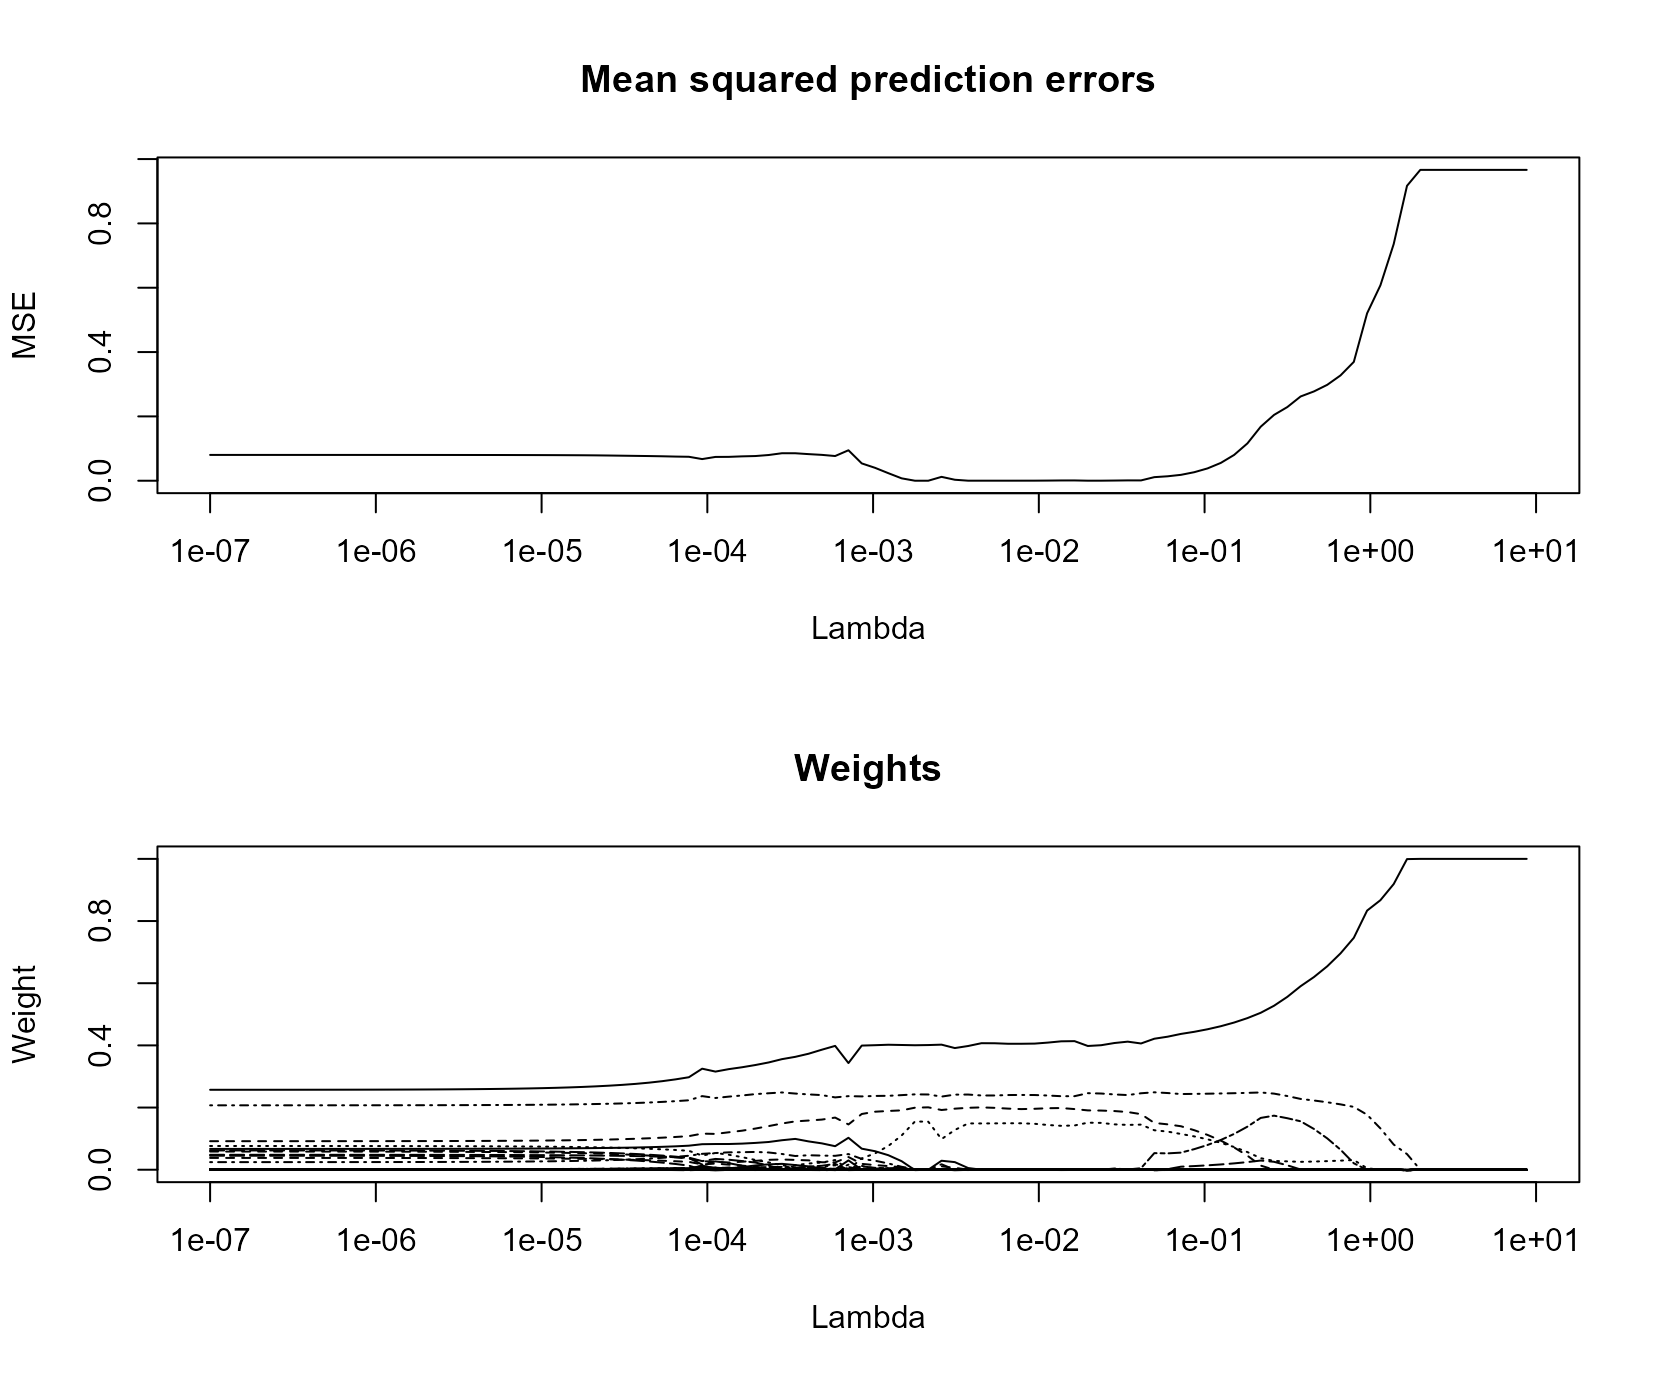
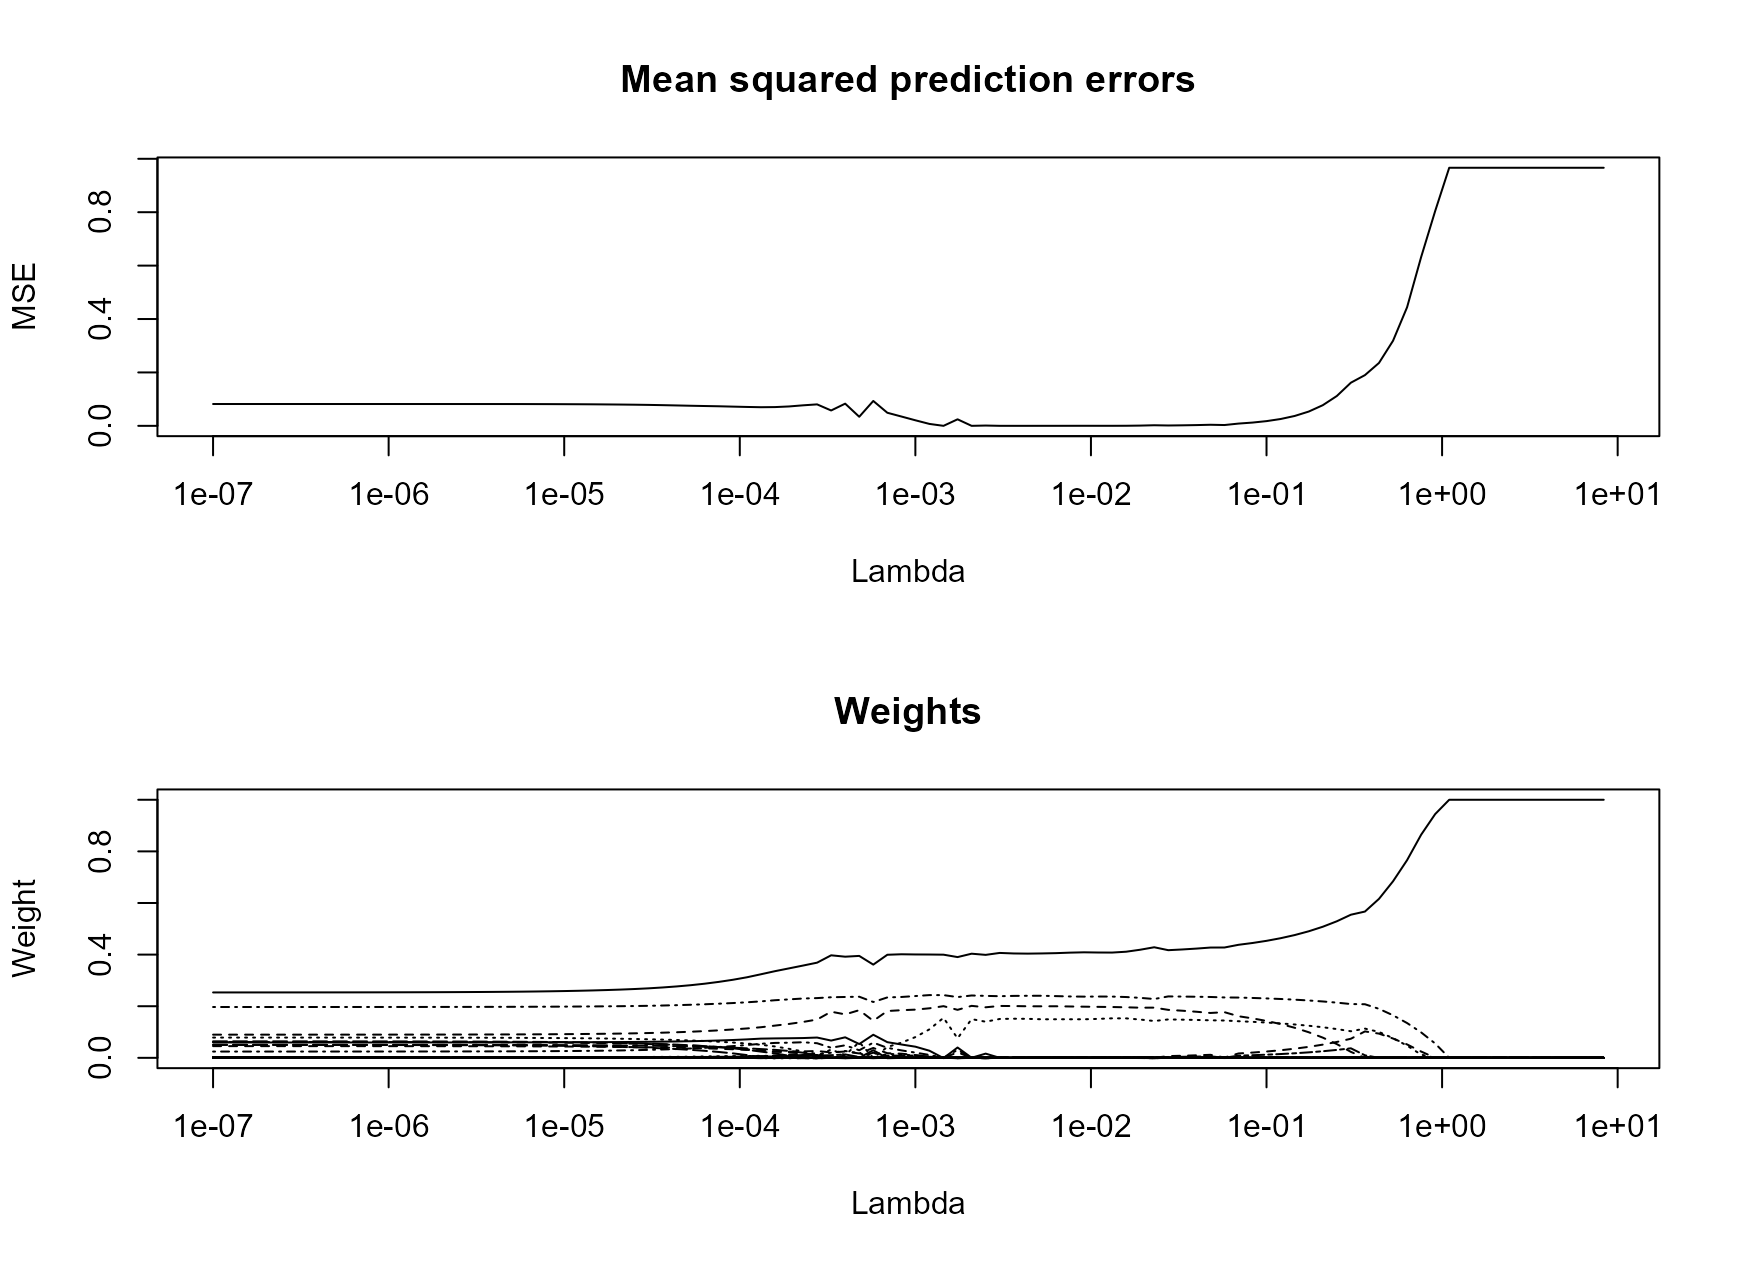
Update readme and plots

diff --git a/README.md b/README.md
@@ -7,8 +7,8 @@
 The goal of `pensynth` is to make it easier to perform penalized synthetic control in the spirit of [Abadie & L'Hour (2021)](https://doi.org/10.1080/01621459.2021.1971535). 
 
 ## Features
-- Faster than the original `Synth::synth` implementation for "vanilla" synthetic controls, even for large donor pools.
-- Built-in cross-validation on the pre-intervention outcome timeseries to determine the penalty parameter. (see example).
+- Faster than the original `Synth::synth` implementation for "vanilla" synthetic controls, even for large donor pools, because we use the [`osqp`](https://osqp.org/) quadratic program solver.
+- Built-in cross-validation on the pre-intervention outcome timeseries to determine the penalty parameter (see example below).
 - Plotting of the full solution path for cross-validated penalized synthetic controls.
 
 NB: in this implementation, variable weights have to be pre-specified (unlike in the original synthetic control implementaion). Additionally, currently only a single treated unit is supported. 
@@ -17,9 +17,38 @@ NB: in this implementation, variable weights have to be pre-specified (unlike in
 
 I recommend installing `pensynth` from r-universe like so:
 
-``` r
+```r
 install.packages("pensynth", repos = c("https://vankesteren.r-universe.dev", "https://cloud.r-project.org"))
 ```
+
+The latest version can also be installed directly from this repository:
+
+```r
+remotes::install_github("vankesteren/pensynth")
+```
+
+## Why penalization?
+
+Penalized synthetic control yields a smooth transition between the synthetic control method (when $\lambda = 0$) and nearest neighbour matching (when $\lambda \to \infty$).
+
+When the treated unit is in the convex hull of the donor units (which is more likely when there are many donors) there is no unique solution for the unit weights of synthetic control. In these cases especially, the penalty can help because it prefers solutions with donors closer in covariate space. 
+
+The `pensynth` implementation achieves this through optimizing the following objective:
+
+$$
+\min_{\boldsymbol{w}} \left[ \| \boldsymbol{x}_1 - \boldsymbol{X}_0 \boldsymbol{w} \|^2 + \lambda \sum_{d\in D} \boldsymbol{w}_d \|\boldsymbol{x}_1 - \boldsymbol{x}_{d}\|^2 \right] \\
+\text{s.t.} \quad \boldsymbol{w}_1 \geq 0, ..., \boldsymbol{w}_D \geq 0,
+\, \sum_{d\in D} \boldsymbol{w}_d = 1
+$$
+
+Where 
+- $\boldsymbol{x}_1$ is the column vector of treated unit covariates,  
+- $\boldsymbol{X}_0$ are the covariate values for the donor units, 
+- $D$ is the number of donor units, 
+- $\lambda$ is the penalty parameter, and 
+- $\boldsymbol{x}_{d}$ is taken to be the $d^{th}$ column of $\boldsymbol{X}_0$.
+
+The first term in the objective is the same (up to variable weights) as the original synthetic control, and the second term is the nearest neighbour matching penalty.
 
 ## Example
 
@@ -28,8 +57,8 @@ library(pensynth)
 set.seed(45)
 
 # Generate some data
-N_covar <- 7   # number of covariates
-N_donor <- 50  # number of donor units
+N_covar  <- 7   # number of covariates
+N_donor  <- 50  # number of donor units
 N_target <- 12 # pre-intervention time series length
 w  <- runif(N_donor) # true unit weights
 w[5:N_donor] <- 0    # set most to 0 (sparse)
@@ -49,6 +78,13 @@ res <- cv_pensynth(X1, X0, v, Z1, Z0)
 plot_path(res)
 ```
 ![cvplot](img/cvplot.png)
+
+```r
+# Compare final weights to true weights
+plot(w, main = "Estimated and true unit weights", xlab = "Donor unit", ylab = "Weight")
+points(res$w_opt, pch = 3)
+```
+![wplot](img/weights.png)
 
 # References
 
